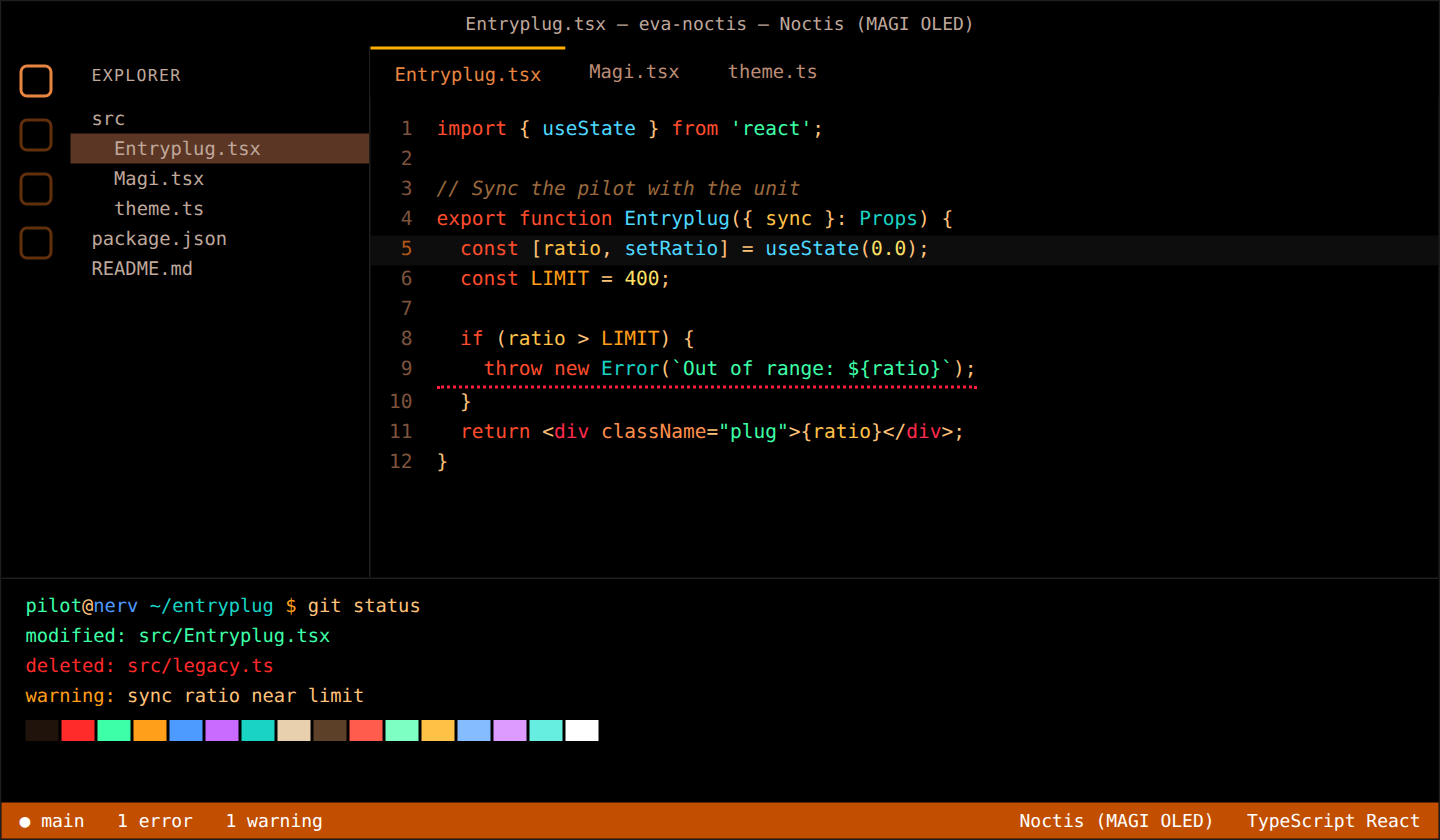
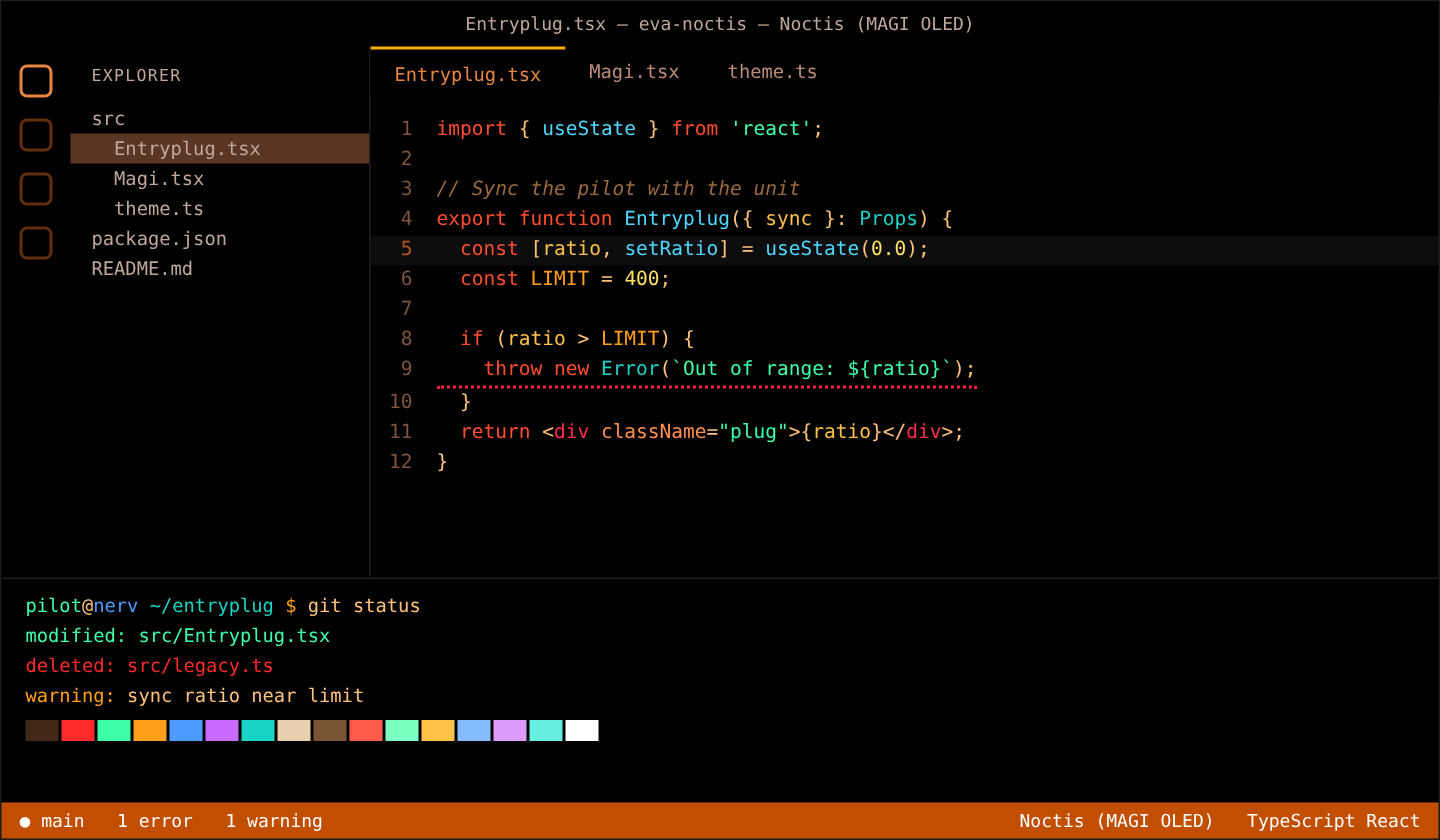
Regenerate previews, shellcheck-clean scripts, stability docs and CONTRIBUTING
- images/ regenerated with Playwright after the ANSI/cursor changes.
- Fix --check also flagging the hand-written installers; shellcheck in CI.
- README: stability policy and how each terminal format was verified; CONTRIBUTING.md.
- Test for install paths with spaces.

diff --git a/tests/test_installer.py b/tests/test_installer.py
@@ -146,6 +146,20 @@ class InstallerTests(unittest.TestCase):
         self.assertIn("Checksum OK", ok.stdout)
         self.assertTrue((self.kitty / "themes/Noctis-EVA-01.conf").is_file())
 
+    def test_paths_with_spaces(self):
+        spaced = self.home / "my home" / "con espacios"
+        (spaced / ".config/ghostty").mkdir(parents=True)
+        (spaced / ".config/ghostty/config").write_text("font-size = 12\n")
+        env = dict(os.environ, HOME=str(spaced), XDG_CONFIG_HOME=str(spaced / ".config"),
+                   KITTY_CONFIG_DIRECTORY=str(spaced / ".config/kitty"), XDG_DATA_HOME=str(spaced / ".local/share"))
+        run = lambda *a: subprocess.run(["bash", str(INSTALL), *a], env=env, stdin=subprocess.DEVNULL, capture_output=True, text=True)
+        result = run("--install", "--apply", "--kitty", "--ghostty", "--tmux")
+        self.assertEqual(result.returncode, 0, result.stderr)
+        self.assertIn("Noctis-EVA-01", (spaced / ".config/ghostty/config").read_text())
+        self.assertTrue((spaced / ".config/kitty/dark-theme.auto.conf").is_file())
+        self.assertEqual(run("--uninstall").returncode, 0)
+        self.assertEqual((spaced / ".config/ghostty/config").read_text(), "font-size = 12\n")
+
 
 if __name__ == "__main__":
     unittest.main()

diff --git a/CONTRIBUTING.md b/CONTRIBUTING.md
@@ -1,0 +1,24 @@
+# Contributing
+
+Everything is generated from `scripts/palettes.toml`; do not edit files under `themes/` or `terminals/*/themes/` by hand.
+
+```bash
+bash scripts/build_all.sh --check   # clone the pinned Noctis base, regenerate, test, package, fail if outputs are stale
+bash scripts/smoke_terminals.sh     # load the themes with whichever terminals you have installed
+bash scripts/check_vsce.sh          # the VSIX ships what `vsce package` would ship (needs node)
+python3 scripts/accessibility.py    # ANSI colors that look alike
+```
+
+## Changing or adding a palette
+1. Edit `scripts/palettes.toml` (a variant can `extends` another palette and override only what changes). List new palettes in `ORDER` of `scripts/screenshots.py` and in `package.json`.
+2. Run `bash scripts/build_all.sh`. Text colors are adjusted automatically to the contrast targets; packaging fails if a target is missed.
+3. `python3 scripts/screenshots.py` refreshes `images/` (needs Playwright with Chromium).
+4. Commit the regenerated `themes/` and `terminals/` together with the palette change.
+
+## Adding a terminal format
+Write a renderer in `scripts/formats.py`, add it to `FORMATS`, add its parser to `parse_extra` and `EXTRA_TERMINALS` in `scripts/package.py` so its colors are compared with the VS Code terminal, and (if it is just a folder of files) add it to `SIMPLE` in `terminals/install.sh`. Prefer validating it with the real application and say in the README how it was checked.
+
+## Conventions
+- Keep `install.sh` shellcheck-clean (`shellcheck -S warning`) and bash 3.2 compatible.
+- Anything the README promises (contrast, true-black OLED, parity) must be enforced by `scripts/package.py`.
+- Releases: bump `package.json` and `CHANGELOG.md`, merge, tag `vX.Y.Z`; the release workflow publishes the VSIX, the terminals zip and `SHA256SUMS`.

diff --git a/README.md b/README.md
@@ -180,6 +180,19 @@ All of them are generated from the same palettes and checked against the VS Code
 
 Theme file names follow the pattern `Noctis-EVA-01`, `Noctis-EVA-01-Berserk`, `Noctis-MAGI`, `Noctis-NERV-HC`, and so on.
 
+## Stability and support
+
+From 1.0 the public surface is: the theme names (`Noctis (EVA-01)`, ...), the terminal theme file names (`Noctis-EVA-01`, ...), the `install.sh` / `install.ps1` flags and the `EVA_NOCTIS_*` variables. Renaming or removing any of them is a major version; adding a theme or format is a minor one; color tweaks and fixes are patches.
+
+Terminal formats by how they were checked:
+
+| Level | Formats |
+| --- | --- |
+| Loaded by the real application in every release | VS Code, kitty, Ghostty, Alacritty, WezTerm, foot, tmux, Zellij, xrdb (Xresources), Konsole (background/foreground) |
+| Checked against the vendor schema or format only | Windows Terminal, iTerm2, Warp, Termux (best effort) |
+
+macOS support of `install.sh` is also best effort (it only uses bash 3.2 features, but it is not tested there).
+
 ## Development
 
 Themes are generated from the Noctis base themes by a small script, so a palette change is one edit and a rebuild:
